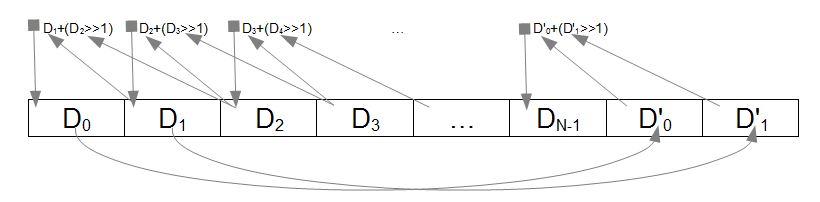
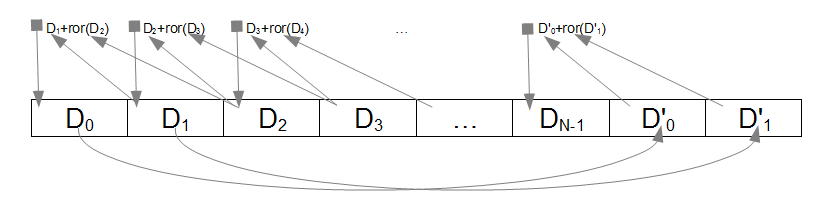
Updated documentation.

diff --git a/README.md b/README.md
@@ -182,9 +182,7 @@ needed. This is accomplished by rotating one of the arguments to the right by
 one bit. The basic outline of the generational cycle operation, with depth of
 N is shown below:
 ![The Cycle Operation](docs/cycle.png)
-<br>Note:
-* The diagram shows shift right because there is no accepted symbol for
-rotate right.
+<br>Notes:
 * The last two elements are copies of the first two elements before
 the array was transformed.
 * Not shown above for brevity, the result of each addition is masked with the
@@ -211,6 +209,36 @@ conversion between FIXNUM and BIGNUM is also slow. The 29 bit size was
 chosen to ensure that all computations remain with FIXNUM values without
 ever reaching the threshold for the switch to BIGNUM values. In 32 bit Ruby
 systems, 29 bits is the largest value that meets this requirement.
+
+#### Code
+
+Enough with all these words and pictures. The best way to gain insight into
+ruby code is to study ruby code! What follows is the critical snippet of code
+that makes this random number generator spin:
+
+```ruby
+private
+
+#Cycle through the PRNG once.
+def do_spin
+  @buffer[-2] = @buffer[0]
+  @buffer[-1] = @buffer[1]
+
+  (0...@depth).each do |idx|
+    tmp = @buffer[idx+2]
+    @buffer[idx] = (@buffer[idx+1] + ((tmp >> 1)|(tmp.odd? ? TOP : 0))) & CHOP
+  end
+end
+
+```
+The above is found in the spinner.rb file. For completeness of understanding,
+the following constants are defined in the fibonacci_rng.rb file:
+
+```ruby
+CHOP = 0x1FFFFFFF
+TOP  = 0x10000000
+
+```
 
 ## Contributing
 
